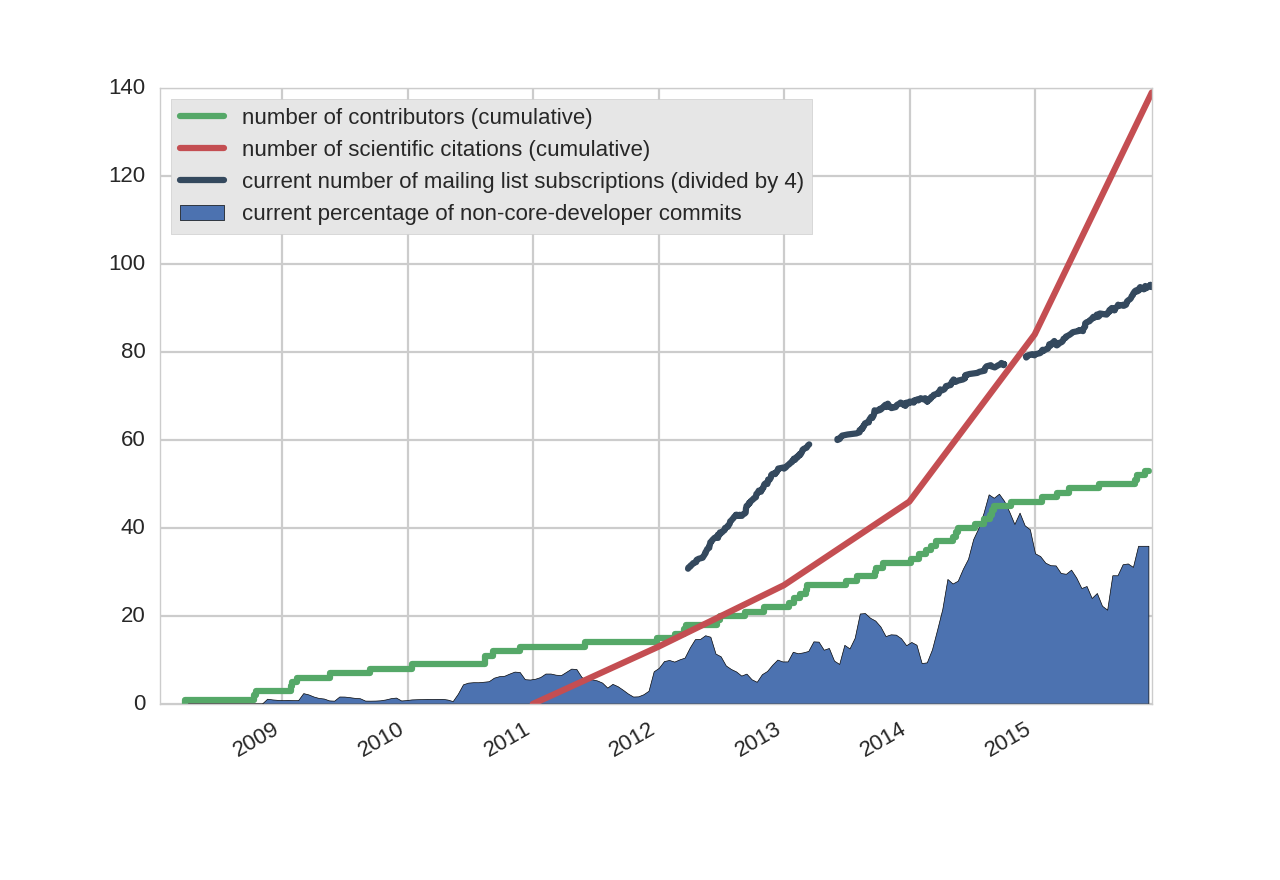
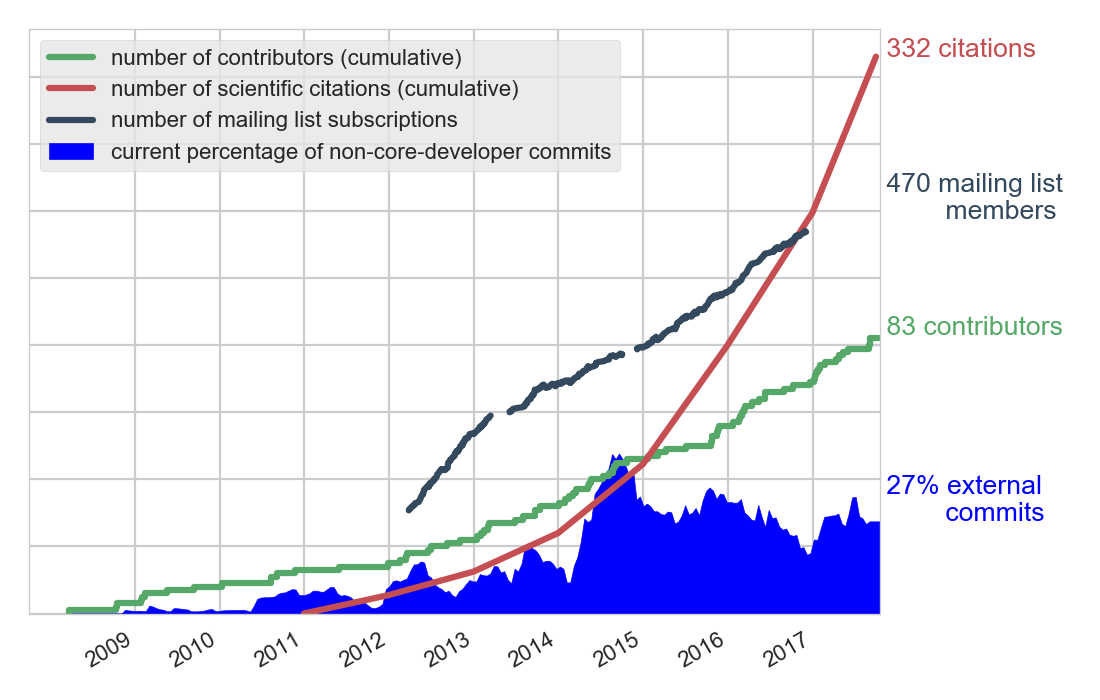
update obspy metrics png

diff --git a/Introduction_Slides/introduction/slides.html b/Introduction_Slides/introduction/slides.html
@@ -176,7 +176,7 @@
         <ul>
             <li>~470 people on users <a href="http://lists.swapbytes.de/mailman/listinfo/obspy-users">mailing list</a></li>
             <li><a href="https://scholar.google.com/scholar?cites=14340313791097274856&as_sdt=400005&sciodt=0,14&hl=en">221</a>+<a href="https://scholar.google.com/scholar?cites=11799560152216664274&as_sdt=400005&sciodt=0,14&hl=en">65</a>+<a href="https://scholar.google.com/scholar?cites=14382546556791972278&as_sdt=400005&sciodt=0,14&hl=en">46</a> scientific citations</li>
-            <img src="images/all_stats.png"  width="790" />
+            <img src="images/all_stats.png"  width="770" />
         </ul>
       </article>
 
